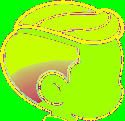
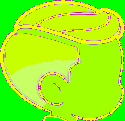
Undercut: hair carries on down behind the ear instead of fading to bare skin
Claude-Session: https://claude.ai/code/session_01HFQNf7fsXi6n9ffaxgnbNf

Changed region(s): [[0.072, 0.4959, 0.624, 0.8926]]

diff --git a/builder.html b/builder.html
@@ -225,8 +225,8 @@ ol.how b{font-weight:800}
 .who button.on{background:var(--sun);box-shadow:0 4px 0 var(--ink)}.who button{padding:10px 4px}.who canvas{height:110px;width:auto;display:block;margin:auto}
 .chips.pics .chip{display:inline-flex;flex-direction:column;align-items:center;gap:0;padding:4px 10px 8px;border-radius:18px}.chips.pics canvas{height:64px;width:64px;display:block}</style>
 <script src="qr.js"></script>
-<script src="kids/kids-meta.js?v=20261102b"></script>
-<script src="kids/kids.js?v=20261102b"></script>
+<script src="kids/kids-meta.js?v=20261102c"></script>
+<script src="kids/kids.js?v=20261102c"></script>
 <style>.qr{display:grid;place-items:center;margin:4px auto 0;padding:12px;background:#fff;border-radius:16px;width:max-content;box-shadow:0 2px 0 rgba(0,0,0,.08)}.qr svg{display:block;width:200px;height:200px}#theLink{word-break:break-all;font-size:12px}</style>
 <style>
 .bm{position:fixed;inset:0;z-index:200;background:var(--paper);display:flex;flex-direction:column;align-items:center;justify-content:center;gap:clamp(10px,2.4vh,22px);padding:24px 16px;text-align:center;opacity:0;transition:opacity .4s}

diff --git a/index.html b/index.html
@@ -334,8 +334,8 @@ footer .cols a{text-decoration:none}
   <p class="small">Mock-up. Prices, links and the sign-up form are placeholders.</p>
 </div></footer>
 
-<script src="kids/kids-meta.js?v=20261102b"></script>
-<script src="kids/kids.js?v=20261102b"></script>
+<script src="kids/kids-meta.js?v=20261102c"></script>
+<script src="kids/kids.js?v=20261102c"></script>
 <script>
 (()=>{
 const BUILDER='builder.html';

diff --git a/play.html b/play.html
@@ -423,8 +423,8 @@ html.lw-loading .splash{visibility:hidden}
   </div>
 </section>
 
-<script src="kids/kids-meta.js?v=20261102b"></script>
-<script src="kids/kids.js?v=20261102b"></script>
+<script src="kids/kids-meta.js?v=20261102c"></script>
+<script src="kids/kids.js?v=20261102c"></script>
 <script src="sfx.js"></script>
 <script src="game.js?v=1793631839"></script>
 <script>
